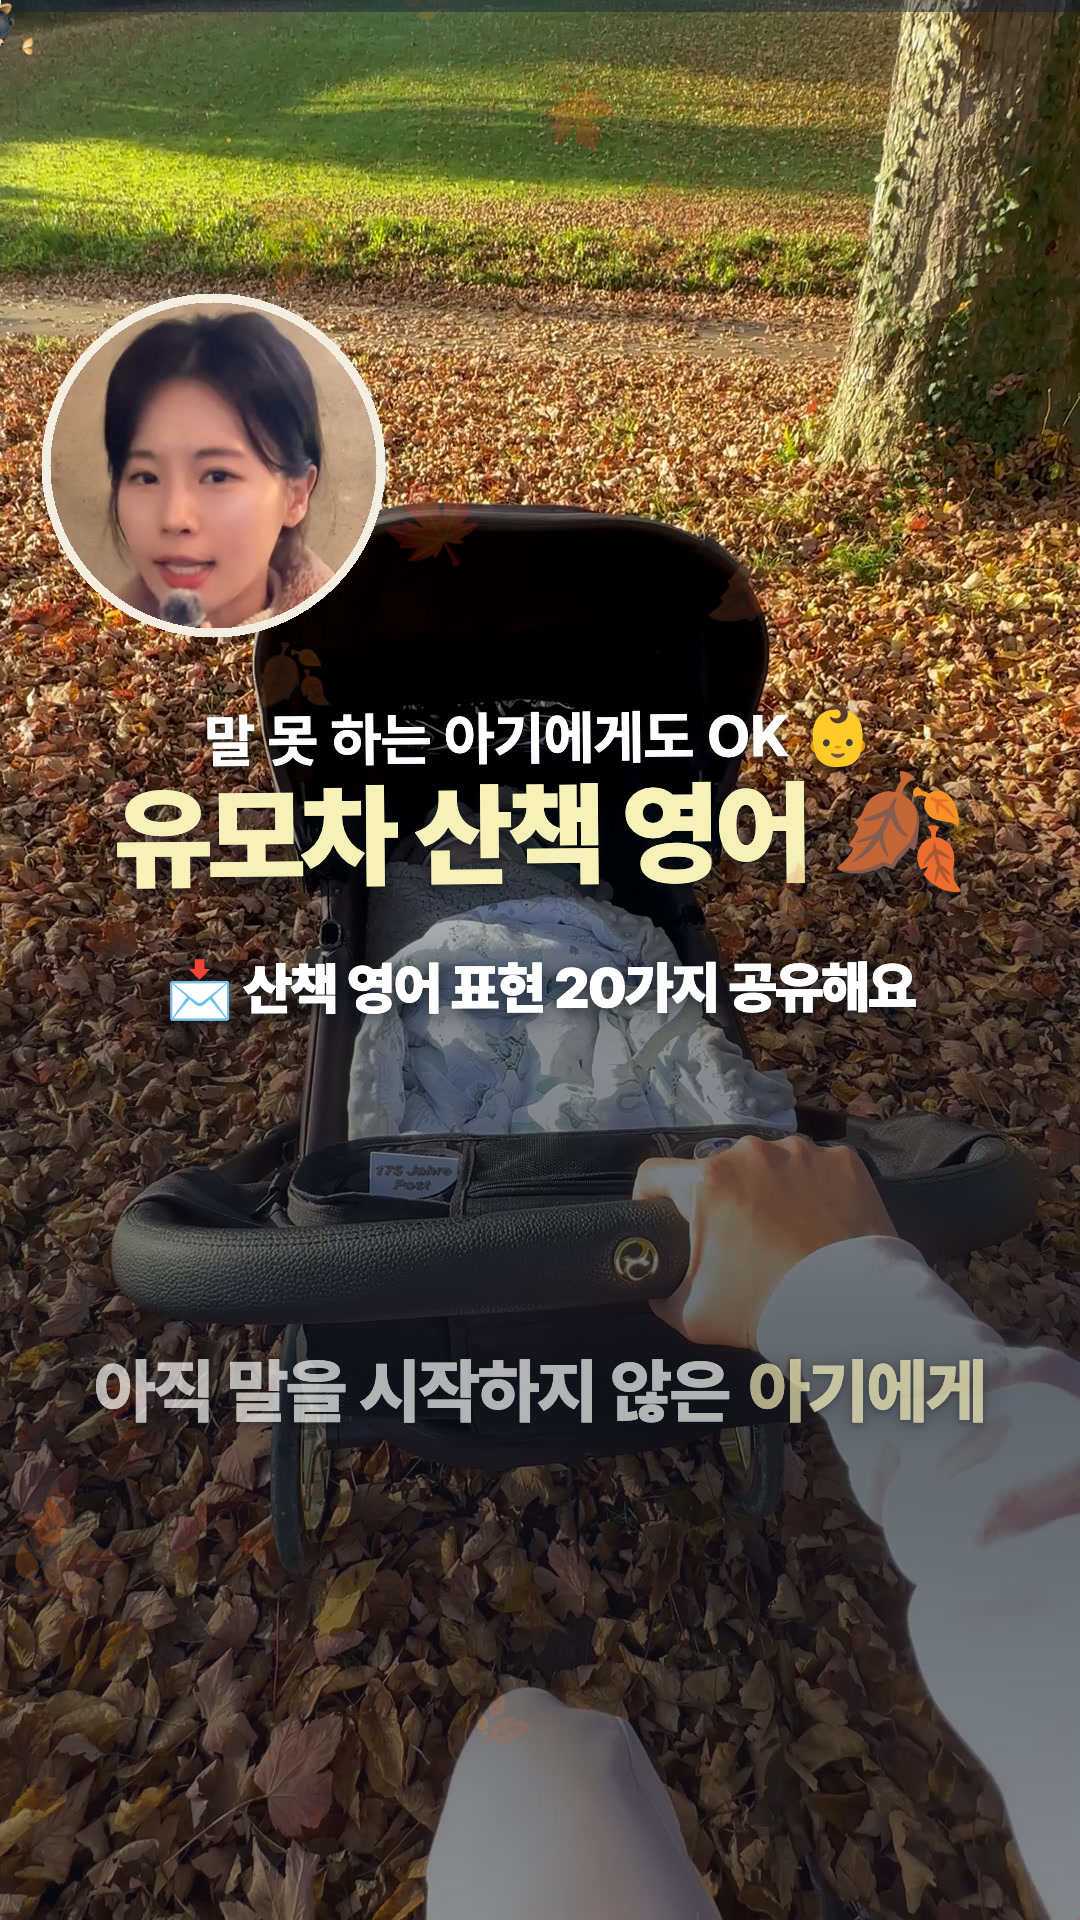
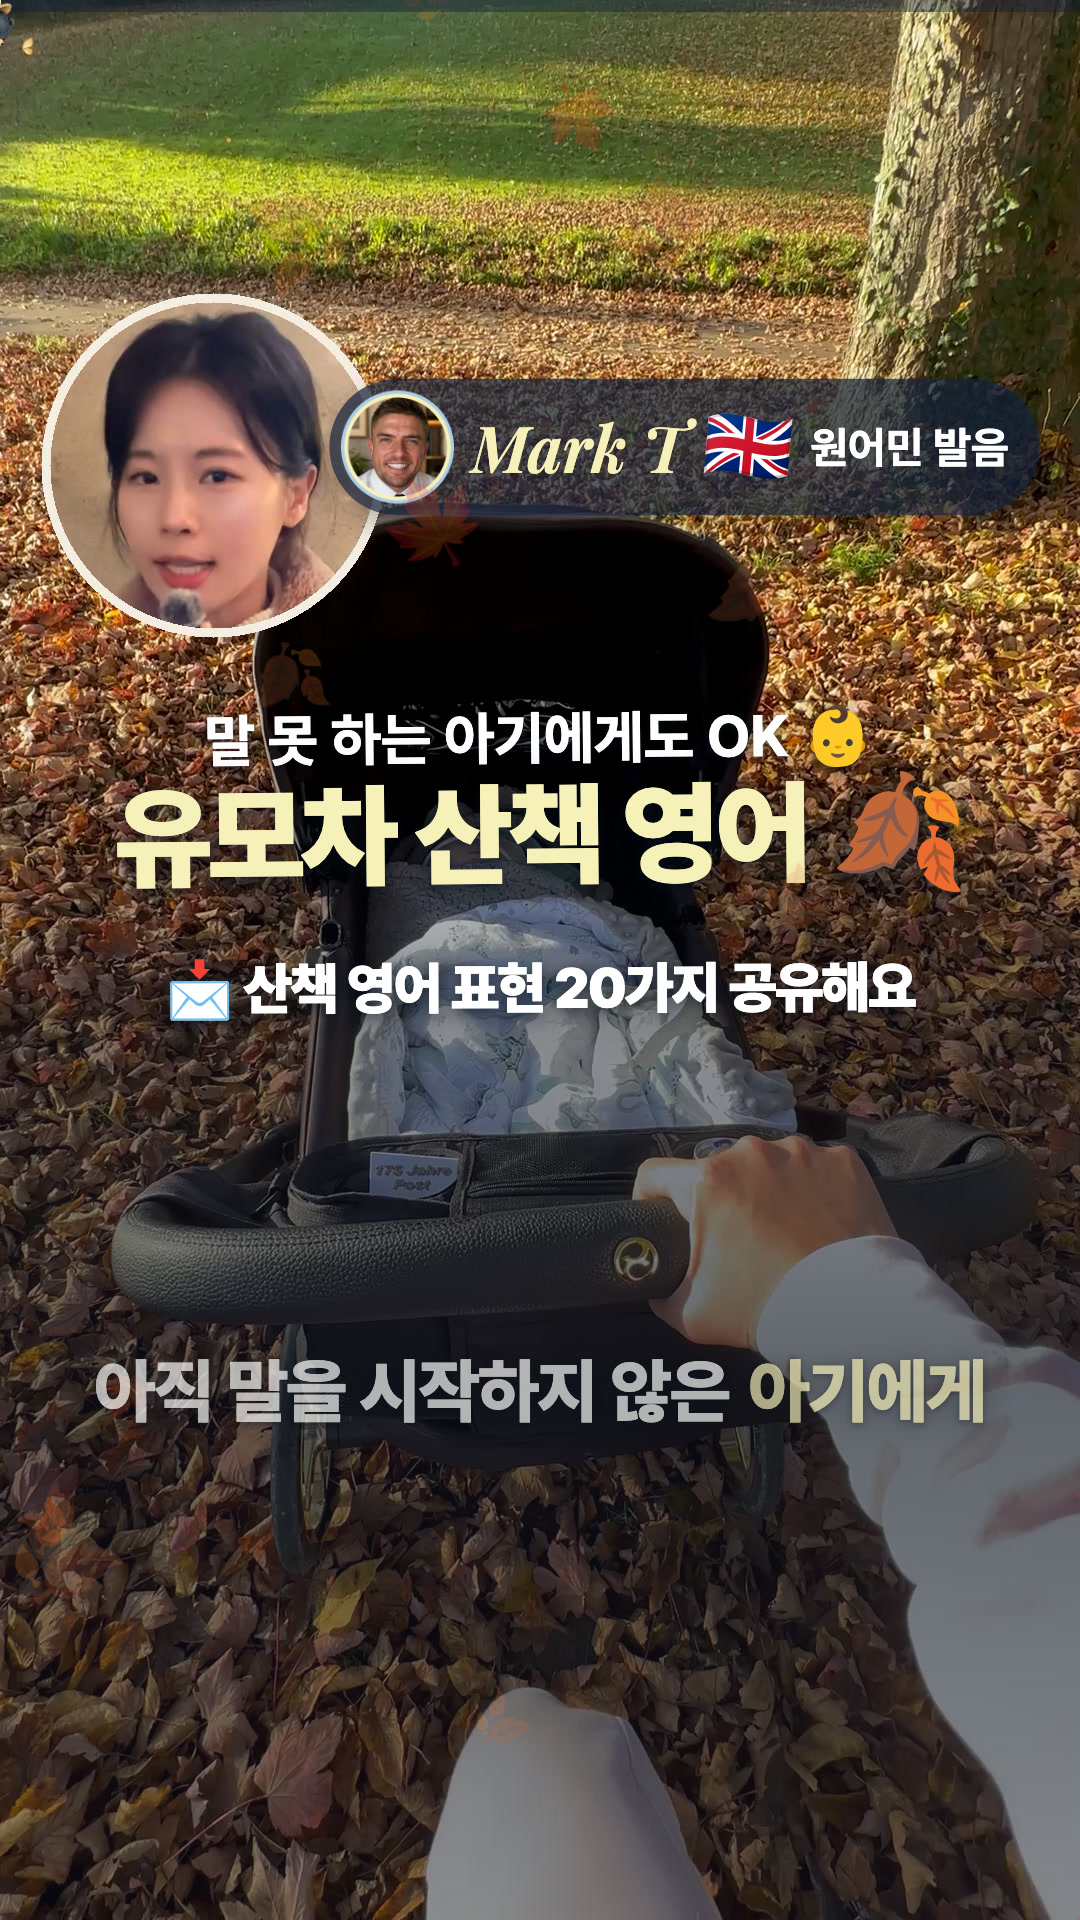
DAY 30: Mark T 🇬🇧 '원어민 발음' chip on the three English phrases and on the thumbnail (Joy)

Changed region(s): [[0.3056, 0.1875, 0.9778, 0.2812]]

diff --git a/remotion/src/BearJoyReelV2.tsx b/remotion/src/BearJoyReelV2.tsx
@@ -416,11 +416,14 @@ const Sticker: React.FC<{ev: Ev; t: number; fps: number}> = ({ev, t, fps}) => {
 const Speaker: React.FC<{ev: Ev; t: number}> = ({ev, t}) => {
   const o = interpolate(t, [ev.s, ev.s + 0.25, ev.e - 0.2, ev.e], [0, 1, 1, 0], clamp);
   return (
-    <div style={{position: 'absolute', left: 36, top: ev.top ?? 110, display: 'flex', alignItems: 'center', gap: 12, background: 'rgba(20,32,58,.72)',
-      borderRadius: 999, padding: '8px 22px 8px 8px', opacity: o, transform: `translateX(${(1 - o) * -40}px)`, boxShadow: '0 8px 20px rgba(0,0,0,.25)'}}>
+    <div style={{position: 'absolute', ...(ev.center ? {left: '50%'} : ev.right !== undefined ? {right: ev.right} : {left: 36}), top: ev.top ?? 110,
+      display: 'flex', alignItems: 'center', gap: 12, background: 'rgba(20,32,58,.72)', borderRadius: 999, padding: '8px 22px 8px 8px', opacity: o,
+      transform: ev.center ? `translateX(-50%) scale(${(0.85 + 0.15 * o) * (ev.scale ?? 1)})` : `translateX(${(1 - o) * -40}px) scale(${ev.scale ?? 1})`,
+      transformOrigin: ev.right !== undefined ? '100% 50%' : ev.center ? '50% 50%' : '0 50%', boxShadow: '0 8px 20px rgba(0,0,0,.25)'}}>
       <Img src={staticFile(ev.img)} style={{width: 78, height: 78}} />
       <span style={{fontFamily: PLAYFAIR, fontStyle: 'italic', fontWeight: 600, fontSize: 44, color: C.yellow, lineHeight: 1}}>{ev.name}</span>
       <span style={{fontFamily: EMOJI, fontSize: 50, lineHeight: 1, display: 'inline-block', transform: `rotate(${Math.sin((t - ev.s) * 4) * 5}deg)`}}>{ev.flags}</span>
+      {ev.note ? <span style={{fontFamily: PRE, fontWeight: 700, fontSize: 30, color: C.white, whiteSpace: 'nowrap'}}>{ev.note}</span> : null}
     </div>
   );
 };

diff --git a/projects/2026-11-day32-stroller/build.py b/projects/2026-11-day32-stroller/build.py
@@ -83,6 +83,8 @@ def main():
     # Joy (DAY 30): the first frame is the thumbnail, so it also says what viewers get
     ev.append({"type": "pop", "s": -0.25, "e": round(cold, 3), "kicker": "", "text": "📩 산책 영어 표현 20가지 공유해요", "slot": "hook2", "k": 92, "size": 56, "color": "#FFFFFF"})
     ev.append({"type": "leaves", "s": 0.0, "e": round(cold, 3), "emoji": ["🍂", "🍁", "🍂"], "n": 18})
+    ev.append({"type": "speaker", "s": -0.3, "e": round(cold, 3), "img": "brand/mark-avatar.png", "name": "Mark T", "flags": "🇬🇧",
+               "note": "원어민 발음", "right": 40, "top": 400, "scale": 1.45})
     add(0.0, "impact", -7); add(0.05, "sparkle", -12)
 
     for k, (s, e, kick, text, slot, snd, size) in enumerate(POPS):
@@ -92,6 +94,9 @@ def main():
         ev.append(p); add(to_out(s), snd, {"pop": -9, "impact": -7}.get(snd, -11))
         ev.append({"type": "punch", "s": to_out(s), "e": to_out(s) + 0.25, "z": 1.05, "shake": 5})
     for k, (s, e, en, emo) in enumerate(PHRASES):
+        # Joy: the three English phrases are Mark's voice, so his face and the UK flag sit right above each one
+        ev.append({"type": "speaker", "s": to_out(s) - 0.1, "e": to_out(e), "img": "brand/mark-avatar.png", "name": "Mark T", "flags": "🇬🇧",
+                   "note": "원어민 발음", "center": True, "top": 760, "scale": 1.2})
         ev.append({"type": "pop", "s": to_out(s), "e": to_out(e), "kicker": "", "text": f"{en} {emo}", "slot": "mid", "k": 40 + k, "size": 104 if len(en) < 20 else 74})
         add(to_out(s), "impact", -8); add(to_out(s) + 0.05, "sparkle", -12)
         ev.append({"type": "punch", "s": to_out(s), "e": to_out(s) + 0.35, "z": 1.1, "shake": 7})
